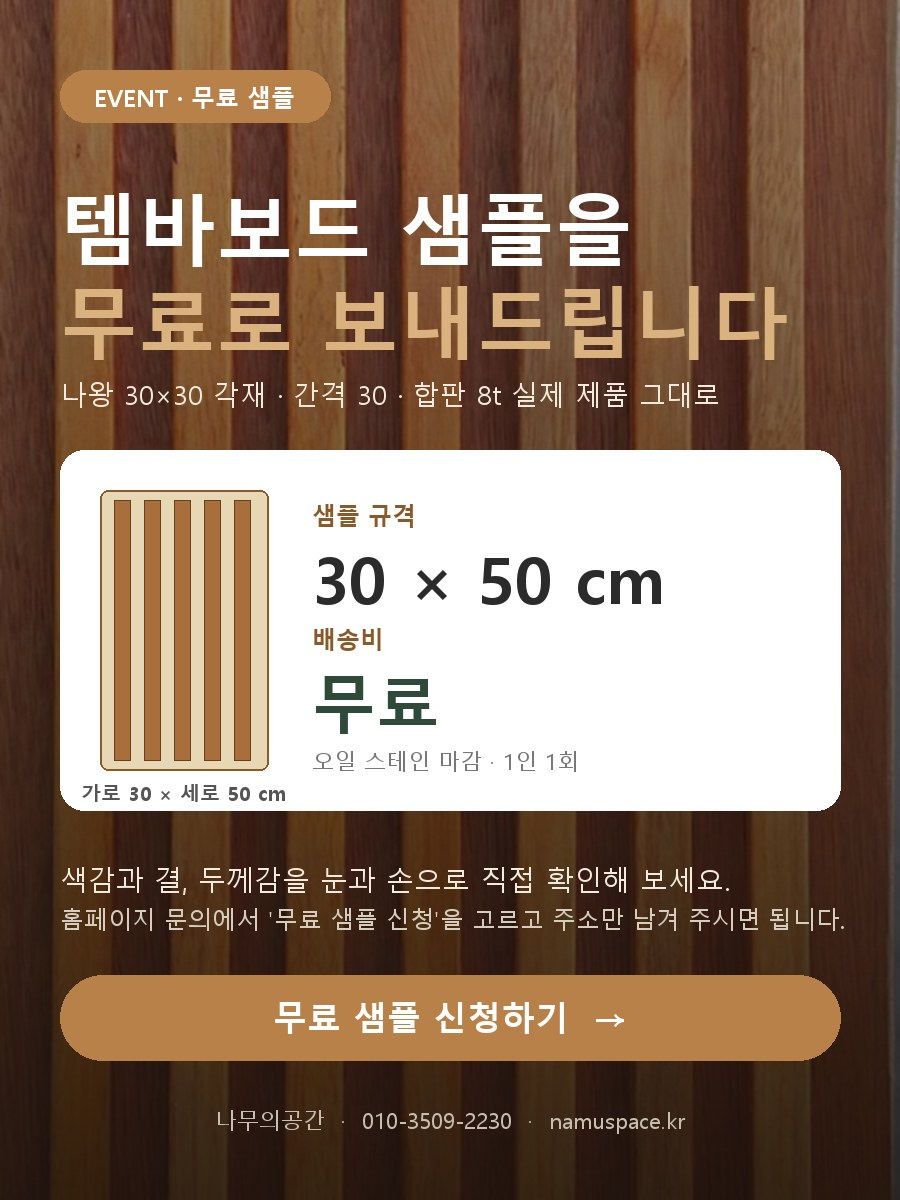
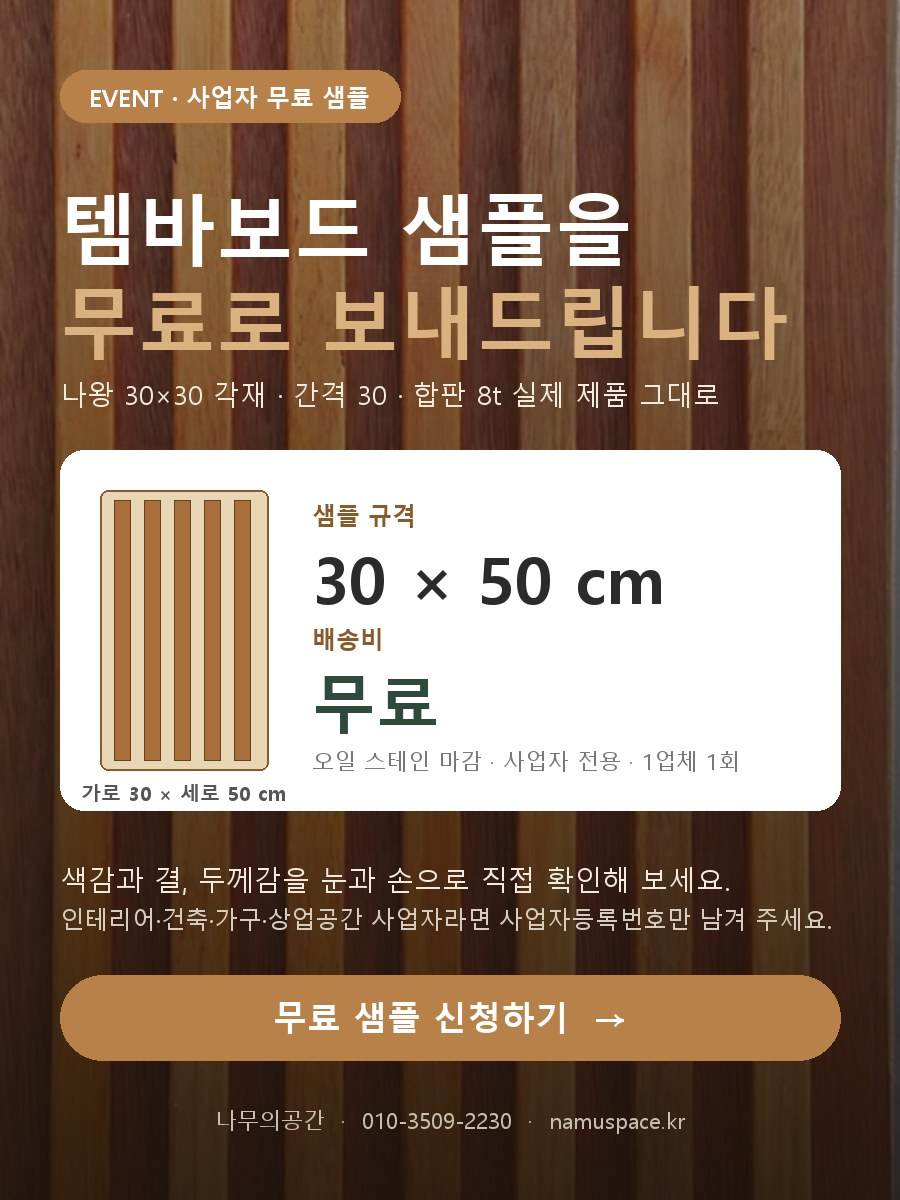
무료 샘플 신청을 사업자 전용으로: 사업자등록번호 필수(*)·형식 검사, 개인 업종 선택지·개인 관련 문구 삭제, 안내 문구·팝업 이미지 '사업자 전용 · 1업체 1회'로 변경

diff --git a/site/sample.html b/site/sample.html
@@ -4,7 +4,7 @@
 <meta charset="UTF-8">
 <meta name="viewport" content="width=device-width, initial-scale=1">
 <title>무료 샘플 신청 | 나무의공간</title>
-<meta name="description" content="나왕 템바보드 샘플(30×50cm)을 무료로 보내드립니다. 인테리어·건축·가구·상업공간 사업자와 개인 모두 신청 가능.">
+<meta name="description" content="나왕 템바보드 샘플(30×50cm)을 사업자(인테리어·건축·가구·상업공간)에게 무료로 보내드립니다. 사업자등록번호 필수.">
 <link href="https://fonts.googleapis.com/css2?family=Noto+Sans+KR:wght@300;400;500;700;900&family=Nanum+Myeongjo:wght@700&display=swap" rel="stylesheet">
 <link rel="stylesheet" href="css/style.css?v=20261001w">
 <style>
@@ -12,7 +12,7 @@
   .sp-hero img { border-radius: var(--radius); box-shadow: 0 20px 50px rgba(60,40,20,.18); }
   .sp-points { display: grid; gap: 10px; margin: 18px 0 0; padding: 0; list-style: none; }
   .sp-points li { display: flex; gap: 10px; align-items: flex-start; font-size: 15px; color: var(--ink-2); }
-  .sp-points li b { color: var(--wood-dark); }
+  .sp-points li b { color: var(--wood-dark); white-space: nowrap; }
   .sp-wrap { display: grid; grid-template-columns: 1fr 340px; gap: 26px; align-items: start; padding: 30px 0 80px; }
   .sp-form { display: grid; gap: 22px; }
   .sp-card { background: #fff; border: 1px solid var(--line); border-radius: var(--radius); padding: 26px; display: grid; gap: 14px; }
@@ -57,11 +57,12 @@
       <div class="eyebrow">Free Sample</div>
       <h1 class="sec-title">템바보드 샘플을<br>무료로 보내드립니다</h1>
       <p class="sec-lead">가로 30 × 세로 50 cm 실제 제품 샘플입니다. 색감과 결, 두께감을 직접 확인해 보시고 현장에 맞는 구성을 상담받으세요. 배송비도 받지 않습니다.</p>
+      <p style="display:inline-block;background:#2b2b2b;color:#fff;border-radius:999px;padding:7px 14px;font-size:13.5px;font-weight:700;margin:0">사업자 전용 · 사업자등록번호 필수</p>
       <ul class="sp-points">
         <li><b>규격</b> 나왕 30×30 각재 · 간격 30 · 합판 8t (실제 제품과 동일 사양)</li>
         <li><b>마감</b> 오일 스테인 (실제 제품 기본 마감)</li>
-        <li><b>발송</b> 신청 확인 후 2~3일 내 택배 발송 · 1업체(1인) 1회</li>
-        <li><b>대상</b> 인테리어·건축·가구·상업공간 사업자와 시공을 검토 중인 개인</li>
+        <li><b>발송</b> 신청 확인 후 2~3일 내 택배 발송 · 1업체 1회</li>
+        <li><b>대상</b> 사업자 전용 — 인테리어·건축·가구·상업공간·자재 유통 등 사업자등록이 있는 업체 (개인 신청은 받지 않습니다)</li>
       </ul>
     </div>
     <img src="img/popup/sample.jpg" alt="무료 샘플 안내" loading="lazy">
@@ -72,8 +73,8 @@
       <div class="sp-card">
         <h3><span class="n">1</span> 신청자 · 업체 정보</h3>
         <div class="two">
-          <label>상호 (회사명) <span class="req">*</span><input name="company" required placeholder="예: 둥지인테리어 · 개인은 이름"></label>
-          <label>사업자등록번호 <span class="hint" style="font-weight:400">(사업자만)</span><input name="bizno" placeholder="000-00-00000" inputmode="numeric"></label>
+          <label>상호 (회사명) <span class="req">*</span><input name="company" required placeholder="예: 둥지인테리어"></label>
+          <label>사업자등록번호 <span class="req">*</span><input name="bizno" required placeholder="000-00-00000" inputmode="numeric"></label>
         </div>
         <div class="two">
           <label>대표자 (담당자) <span class="req">*</span><input name="ceo" required placeholder="홍길동"></label>
@@ -92,7 +93,6 @@
             <label><input type="radio" name="biz" value="가구·목공"><span>가구·목공</span></label>
             <label><input type="radio" name="biz" value="카페·상점 운영"><span>카페·상점 운영</span></label>
             <label><input type="radio" name="biz" value="자재 유통"><span>자재 유통</span></label>
-            <label><input type="radio" name="biz" value="개인 (주택·아파트)"><span>개인 (주택·아파트)</span></label>
             <label><input type="radio" name="biz" value="기타"><span>기타</span></label>
           </div>
         </label>
@@ -142,7 +142,7 @@
         <div class="row"><span>샘플 규격</span><b>30 × 50 cm</b></div>
         <div class="row"><span>샘플 비용</span><b>0원</b></div>
         <div class="row"><span>배송비</span><b>무료</b></div>
-        <p class="note" style="margin:6px 0 0">1업체(1인) 1회 · 신청 확인 후 2~3일 내 택배 발송 · 재고 상황에 따라 발송이 늦어질 수 있습니다.</p>
+        <p class="note" style="margin:6px 0 0">사업자 전용 · 1업체 1회 · 신청 확인 후 2~3일 내 택배 발송 · 재고 상황에 따라 발송이 늦어질 수 있습니다.</p>
         <button type="button" class="btn wood" id="spSubmit">무료 샘플 신청하기</button>
         <p class="note" id="spNote" style="margin:0"></p>
       </div>
@@ -155,7 +155,7 @@
 <footer class="site"><div class="wrap"><a class="logo" data-logo href="index.html"></a><div><b data-site="name"></b> · 대표 <span data-site="ceo"></span> · <span data-site="tel"></span> · <span data-site="email"></span><br><span style="opacity:.7">사업자등록번호 <span data-site="bizno"></span> (<span data-site="bizname"></span>) · <span data-site="address"></span> <a href="admin.html" class="gear" title="관리자" aria-label="관리자">⚙</a></span></div></div></footer>
 
 <script src="js/logos.js?v=20261001z"></script>
-<script src="js/main.js?v=20261001y"></script>
+<script src="js/main.js?v=20261002a"></script>
 <script src="js/cart.js?v=20261001w"></script>
 <script>
 (function () {
@@ -168,18 +168,18 @@
     const d = Object.fromEntries(new FormData(form).entries());
     const mk = [...form.querySelectorAll('input[name=mk]:checked')].map(i => i.value);
     const miss = [];
-    if (!d.company) miss.push('상호'); if (!d.ceo) miss.push('대표자'); if (!d.tel) miss.push('휴대폰');
+    if (!d.company) miss.push('상호'); if (!d.bizno) miss.push('사업자등록번호'); if (!d.ceo) miss.push('대표자'); if (!d.tel) miss.push('휴대폰');
     if (!d.email || !/^[^\s@]+@[^\s@]+\.[^\s@]+$/.test(d.email)) miss.push('이메일');
     if (!NW_ADDR.valid('#spAddr')) miss.push('주소'); if (!d.biz) miss.push('업종'); if (!d.intent) miss.push('시공 의사');
     if (miss.length) { note.textContent = '입력해 주세요: ' + miss.join(', '); note.style.color = '#b91c1c'; return; }
     if (!form.agree.checked) { note.textContent = '개인정보 수집·이용 동의(필수)에 체크해 주세요.'; note.style.color = '#b91c1c'; return; }
-    if (d.bizno && !/^\d{3}-\d{2}-\d{5}$/.test(d.bizno)) { note.textContent = '사업자등록번호는 000-00-00000 형식으로 적어 주세요 (개인은 비워 두셔도 됩니다).'; note.style.color = '#b91c1c'; return; }
+    if (!/^\d{3}-\d{2}-\d{5}$/.test(d.bizno)) { note.textContent = '무료 샘플은 사업자만 신청할 수 있습니다. 사업자등록번호를 000-00-00000 형식으로 적어 주세요.'; note.style.color = '#b91c1c'; return; }
     btn.disabled = true; btn.textContent = '신청 중…'; note.textContent = ''; note.style.color = '';
     const sample = {}; F.forEach(k => sample[k] = d[k] || ''); sample.marketing = mk.join('·') || '동의 안 함'; sample.agree = '동의';
     const fields = F.map(k => [LABEL[k], sample[k] || '-']).concat([['개인정보 동의', '동의 (필수)'], ['안내 수신 동의', sample.marketing]]);
     const text = `[나무의공간 무료 샘플 신청]\n` + fields.map(([k, v]) => `${k}: ${v}`).join('\n');
     const subject = `[샘플 신청] ${d.company} · ${d.ceo} 님 (${d.biz})`;
-    const doc = { kind: 'sample', title: '무료 샘플 신청서', customer: { name: `${d.company} · ${d.ceo}`, tel: d.tel, email: d.email, addr: d.addr }, fields: fields.slice(6), message: d.memo || '', notes: ['샘플 규격 30 × 50 cm · 배송비 무료 · 1업체(1인) 1회', '신청 확인 후 2~3일 내 택배로 발송됩니다. 재고 상황에 따라 늦어질 수 있습니다.'] };
+    const doc = { kind: 'sample', title: '무료 샘플 신청서', customer: { name: `${d.company} · ${d.ceo}`, tel: d.tel, email: d.email, addr: d.addr }, fields: fields.slice(6), message: d.memo || '', notes: ['샘플 규격 30 × 50 cm · 배송비 무료 · 사업자 전용 · 1업체 1회', '신청 확인 후 2~3일 내 택배로 발송됩니다. 재고 상황에 따라 늦어질 수 있습니다.'] };
     const ok = await NW_SEND({ type: 'sample', subject, text, customer: { name: `${d.company} · ${d.ceo}`, tel: d.tel, email: d.email, addr: d.addr }, meta: { sample }, doc, files: [] });
     if (ok) { document.getElementById('spDoneText').textContent = `${d.email} 로 신청 확인 메일을 보내 드렸습니다. 담당자가 확인 후 ${d.tel} 로 발송 안내를 드립니다.`; document.getElementById('spDone').style.display = ''; btn.textContent = '신청 완료'; form.querySelectorAll('input,select,textarea').forEach(el => el.disabled = true); document.getElementById('spDone').scrollIntoView({ behavior: 'smooth', block: 'center' }); return; }
     btn.disabled = false; btn.textContent = '무료 샘플 신청하기';

diff --git a/site/index.html b/site/index.html
@@ -256,7 +256,7 @@
           <label>연락처 <input name="tel" required placeholder="010-0000-0000"></label>
         </div>
         <label>관심 제품
-          <select name="product"><option>세로 템바보드</option><option>가로 템바보드</option><option>현장 시공</option><option>대량 주문</option><option>무료 샘플 신청 (30×50 cm)</option></select>
+          <select name="product"><option>세로 템바보드</option><option>가로 템바보드</option><option>현장 시공</option><option>대량 주문</option><option>무료 샘플 신청 (사업자 · 30×50 cm)</option></select>
         </label>
         <label>문의 내용 <textarea name="msg" placeholder="시공 위치, 대략의 크기, 수량, 희망 일정 등을 적어 주세요."></textarea></label>
         <label>현장 사진 첨부 <span class="hint" style="font-weight:400;color:var(--ink-3)">(선택 · 현장 상황이나 원하는 구성을 사진으로 보내 주시면 맞춤 제안을 드립니다)</span>
@@ -285,7 +285,7 @@
 <div class="lb"><button class="x">×</button><img alt=""></div>
 
 <script src="js/logos.js?v=20261001z"></script>
-<script src="js/main.js?v=20261001y"></script>
+<script src="js/main.js?v=20261002a"></script>
 <script src="js/cart.js?v=20261001w"></script>
 </body>
 </html>

diff --git a/site/js/main.js b/site/js/main.js
@@ -203,7 +203,7 @@ document.addEventListener('input', e => {
     // 문의 폼 → mailto (이메일 자동전송은 보류 상태)
     const cf = document.querySelector('form.f');
     if (cf) {
-      if (new URLSearchParams(location.search).get('sample')) { const ps = cf.querySelector('select[name=product]'); if (ps) { ps.value = '무료 샘플 신청 (30×50 cm)'; const msg = cf.querySelector('textarea[name=msg]'); if (msg && !msg.value) msg.value = '무료 샘플(가로 30 × 세로 50 cm) 신청합니다.\n받을 주소: '; } setTimeout(() => cf.scrollIntoView({ behavior: 'smooth', block: 'start' }), 300); }
+      if (new URLSearchParams(location.search).get('sample')) { const ps = cf.querySelector('select[name=product]'); if (ps) { ps.value = '무료 샘플 신청 (사업자 · 30×50 cm)'; const msg = cf.querySelector('textarea[name=msg]'); if (msg && !msg.value) msg.value = '무료 샘플(가로 30 × 세로 50 cm, 사업자 전용) 신청합니다.\n상호/사업자등록번호: \n받을 주소: '; } setTimeout(() => cf.scrollIntoView({ behavior: 'smooth', block: 'start' }), 300); }
       // 현장 사진 첨부: 미리보기 + 긴 변 1600px 로 축소 (최대 8장)
       let photos = [];
       const fin = cf.querySelector('#cfPhotos'), pv = cf.querySelector('#cfPreview');

diff --git a/site/catalog.html b/site/catalog.html
@@ -45,7 +45,7 @@
 <footer class="site"><div class="wrap"><a class="logo" data-logo href="index.html"></a><div><b data-site="name"></b> · 대표 <span data-site="ceo"></span> · <span data-site="tel"></span> · <span data-site="email"></span><br><span style="opacity:.7">사업자등록번호 <span data-site="bizno"></span> (<span data-site="bizname"></span>) · <span data-site="address"></span> <a href="admin.html" class="gear" title="관리자" aria-label="관리자">⚙</a></span></div></div></footer>
 <div class="floating"><a data-tel href="#">전화</a><a class="dark" href="order.html">주문</a></div>
 <script src="js/logos.js?v=20261001z"></script>
-<script src="js/main.js?v=20261001y"></script>
+<script src="js/main.js?v=20261002a"></script>
 <script src="js/cart.js?v=20261001w"></script>
 </body>
 </html>

diff --git a/site/checkout.html b/site/checkout.html
@@ -64,7 +64,7 @@
 <footer class="site"><div class="wrap"><a class="logo" data-logo href="index.html"></a><div><b data-site="name"></b> · 대표 <span data-site="ceo"></span> · <span data-site="tel"></span> · <span data-site="email"></span><br><span style="opacity:.7">사업자등록번호 <span data-site="bizno"></span> (<span data-site="bizname"></span>) · <span data-site="address"></span> <a href="admin.html" class="gear" title="관리자" aria-label="관리자">⚙</a></span></div></div></footer>
 
 <script src="js/logos.js?v=20261001z"></script>
-<script src="js/main.js?v=20261001y"></script>
+<script src="js/main.js?v=20261002a"></script>
 <script src="js/cart.js?v=20261001w"></script>
 <script src="js/payments.js?v=20261001p"></script>
 <script>

diff --git a/site/complete.html b/site/complete.html
@@ -25,7 +25,7 @@
 <footer class="site"><div class="wrap"><a class="logo" data-logo href="index.html"></a><div><b data-site="name"></b> · 대표 <span data-site="ceo"></span> · <span data-site="tel"></span> · <span data-site="email"></span> <a href="admin.html" class="gear" title="관리자" aria-label="관리자">⚙</a></div></div></footer>
 
 <script src="js/logos.js?v=20261001z"></script>
-<script src="js/main.js?v=20261001y"></script>
+<script src="js/main.js?v=20261002a"></script>
 <script src="js/cart.js?v=20261001w"></script>
 <script src="js/payments.js?v=20261001p"></script>
 <script>

diff --git a/site/order.html b/site/order.html
@@ -232,7 +232,7 @@
 <div class="floating"><a data-tel href="#">전화</a><a class="dark" href="cart.html">장바구니</a></div>
 
 <script src="js/logos.js?v=20261001z"></script>
-<script src="js/main.js?v=20261001y"></script>
+<script src="js/main.js?v=20261002a"></script>
 <script src="js/cart.js?v=20261001w"></script>
 <!-- 이메일 자동 발송(EmailJS)을 쓰려면 아래 주석을 풀고 main.js 의 SITE.emailjs 값을 채우세요.
 <script src="https://cdn.jsdelivr.net/npm/@emailjs/browser@4/dist/email.min.js"></script> -->

diff --git a/site/logo.html b/site/logo.html
@@ -50,7 +50,7 @@
 <footer class="site"><div class="wrap"><a class="logo" data-logo href="index.html"></a><div><b data-site="name"></b> · <span data-site="tel"></span></div></div></footer>
 
 <script src="js/logos.js?v=20261001z"></script>
-<script src="js/main.js?v=20261001y"></script>
+<script src="js/main.js?v=20261002a"></script>
 <script src="js/cart.js?v=20261001w"></script>
 <script>
 (function () {

diff --git a/site/cart.html b/site/cart.html
@@ -34,7 +34,7 @@
 <div class="lb"><button class="x">×</button><img alt=""></div>
 
 <script src="js/logos.js?v=20261001z"></script>
-<script src="js/main.js?v=20261001y"></script>
+<script src="js/main.js?v=20261002a"></script>
 <script src="js/cart.js?v=20261001w"></script>
 <script>
 (function () {

diff --git a/site/admin.html b/site/admin.html
@@ -76,7 +76,7 @@
 </div>
 
 <script src="js/logos.js?v=20261001z"></script>
-<script src="js/main.js?v=20261001y"></script>
+<script src="js/main.js?v=20261002a"></script>
 <script src="js/admin.js?v=20261001w"></script>
 </body>
 </html>
